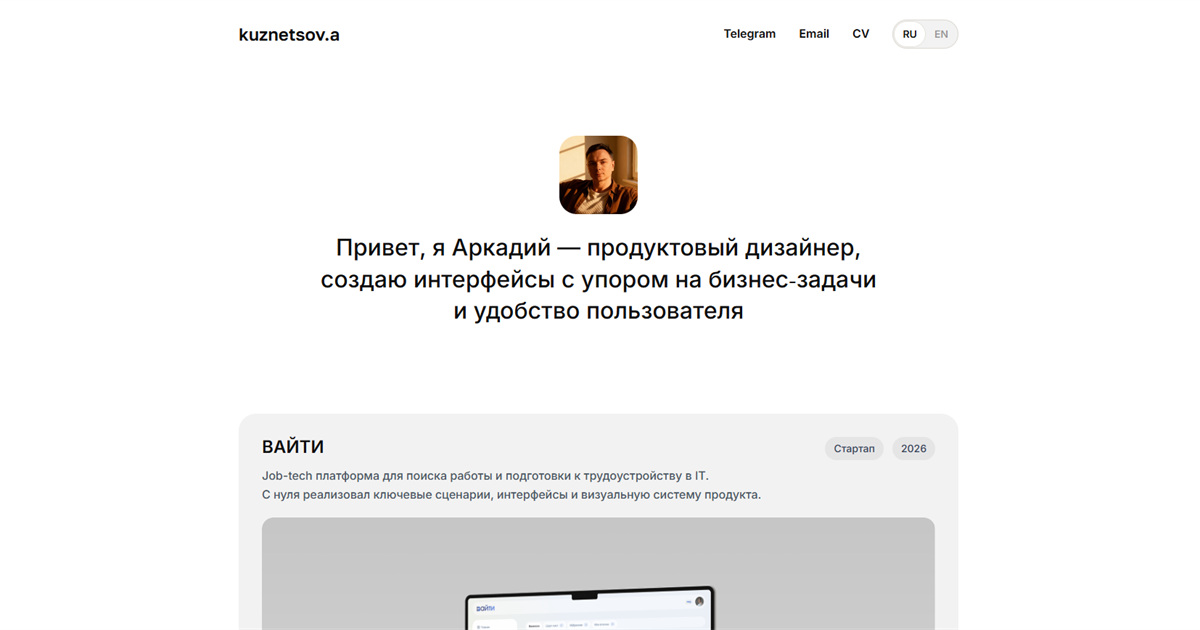
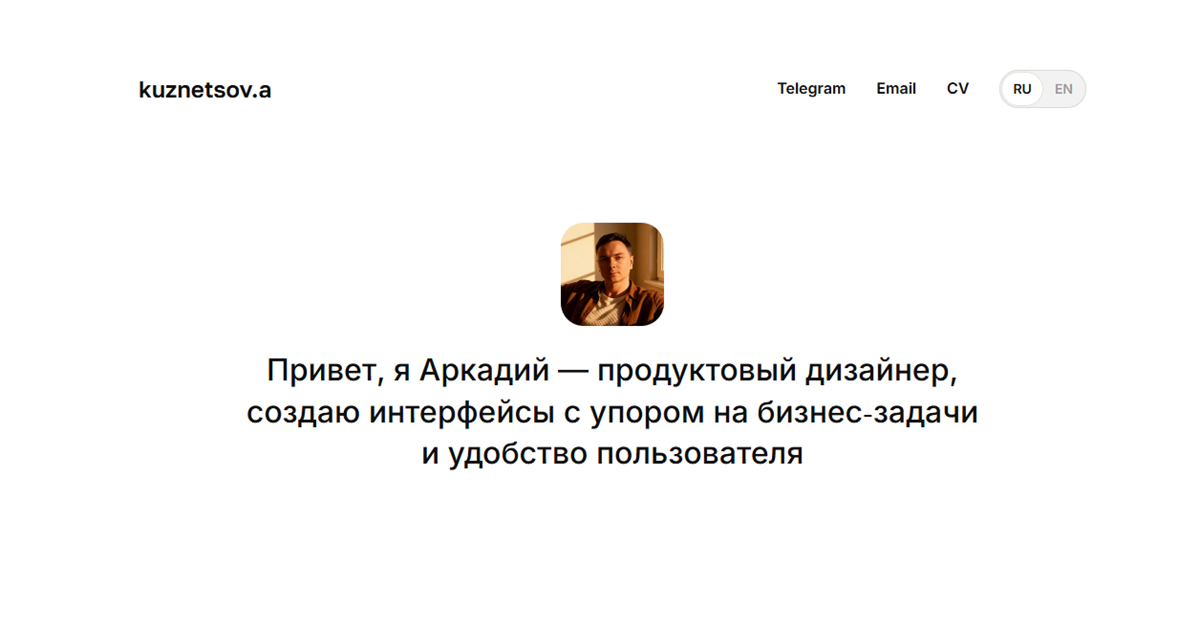
Refresh home social preview image

diff --git a/index-en.html b/index-en.html
@@ -18,7 +18,7 @@
     />
     <link rel="canonical" href="https://kuznetsovad.site/index-en.html" />
     <meta property="og:type" content="website" />
-    <meta property="og:site_name" content="Arkady Kuznetsov" />
+    <meta property="og:site_name" content="kuznetsov.a" />
     <meta property="og:locale" content="en_US" />
     <meta property="og:title" content="Arkady Kuznetsov — Product Designer" />
     <meta

diff --git a/index.html b/index.html
@@ -18,7 +18,7 @@
     />
     <link rel="canonical" href="https://kuznetsovad.site/" />
     <meta property="og:type" content="website" />
-    <meta property="og:site_name" content="Arkady Kuznetsov" />
+    <meta property="og:site_name" content="kuznetsov.a" />
     <meta property="og:locale" content="ru_RU" />
     <meta property="og:title" content="Аркадий Кузнецов — продуктовый дизайнер" />
     <meta